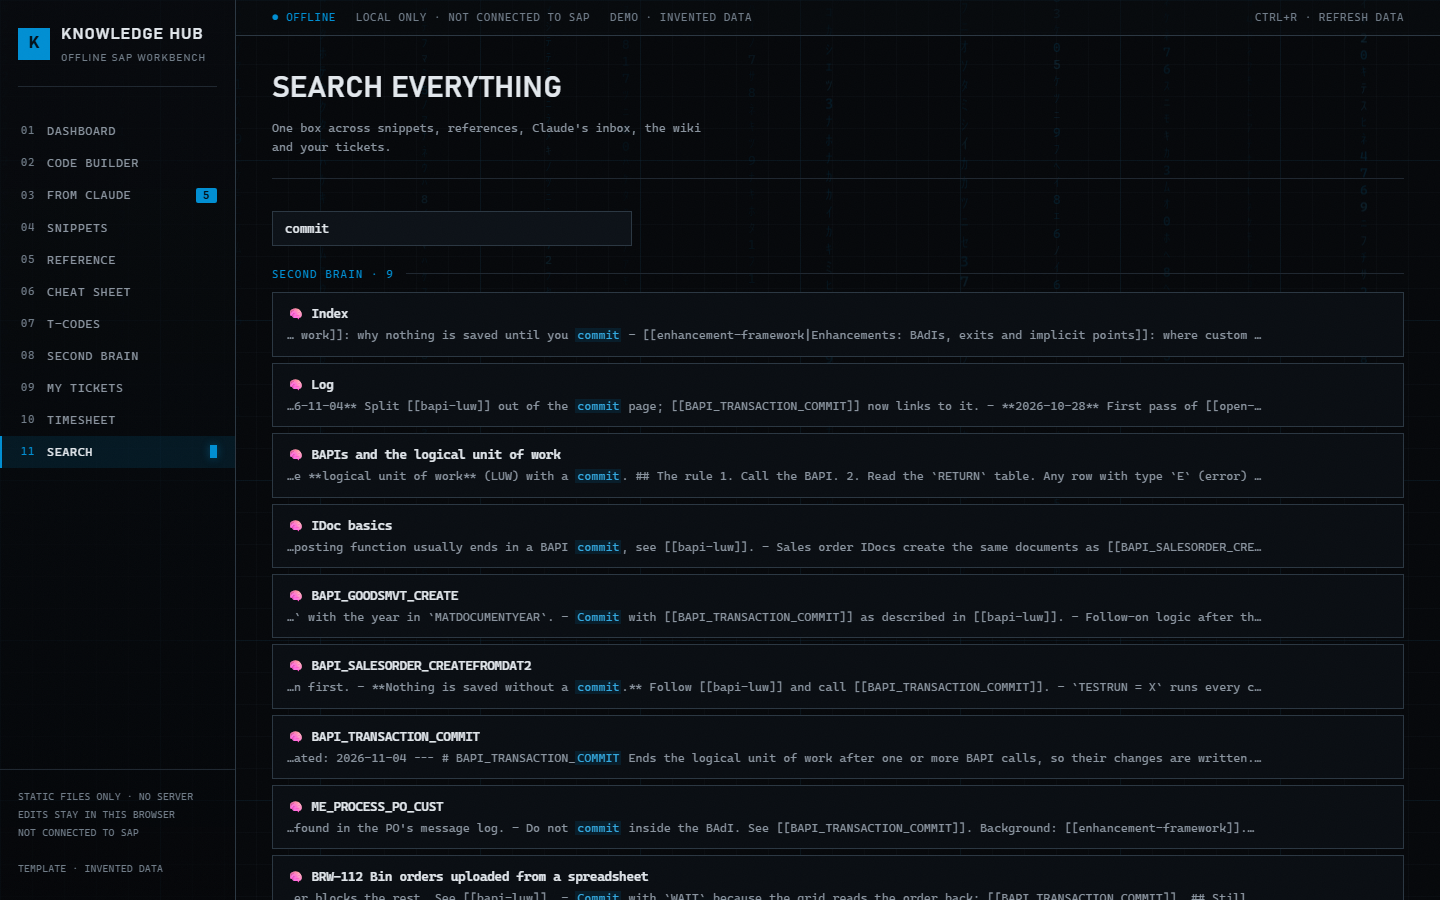
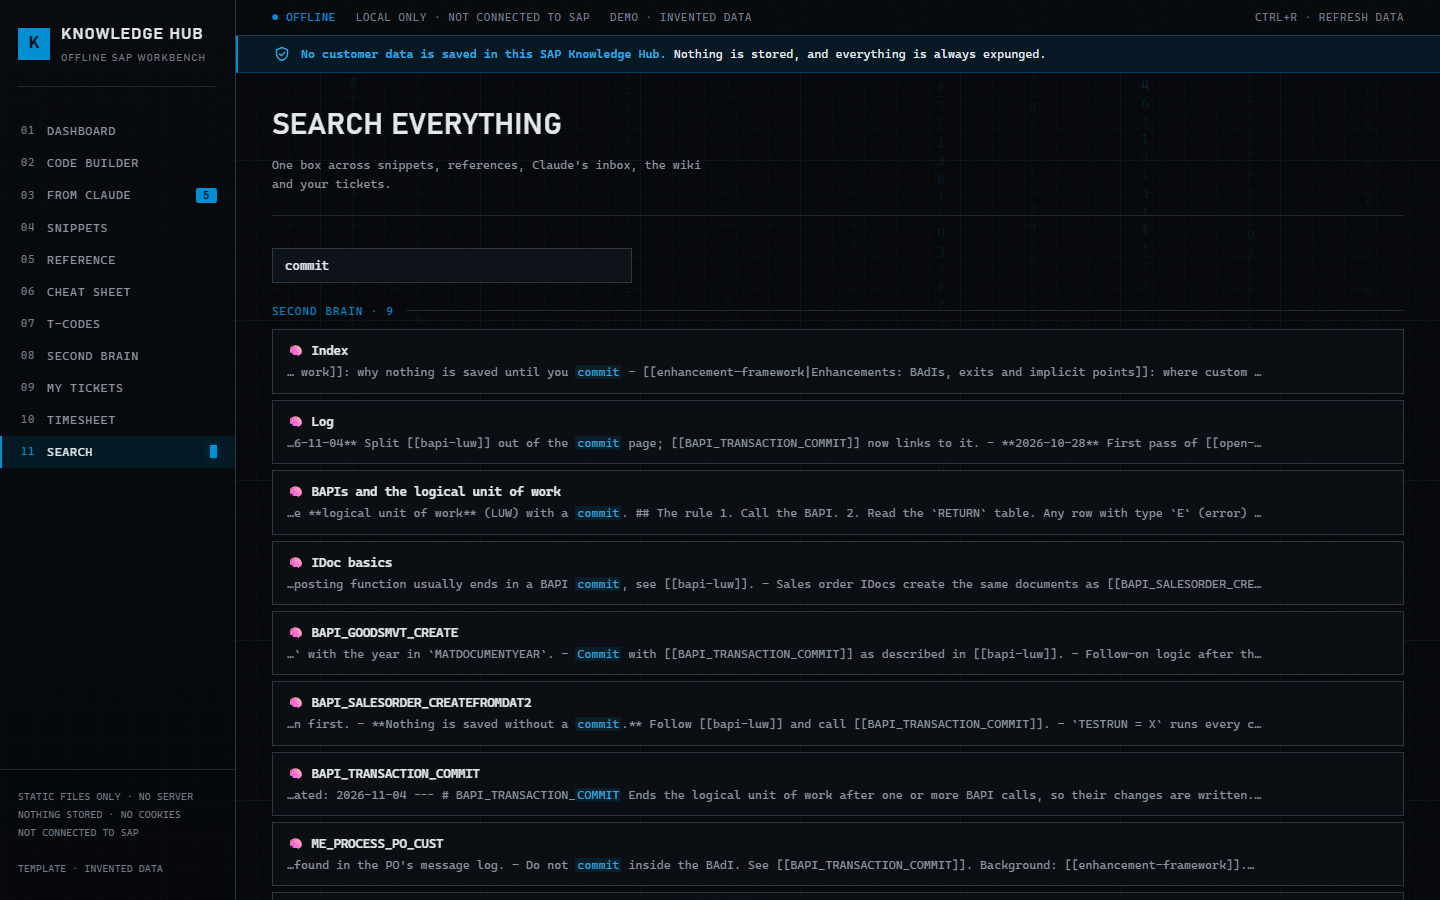
Store nothing: in-memory edits, privacy notice, CSP
- Replace every localStorage read/write (snippets, references, editor
  buffer, timesheet hours) with in-memory state that is gone on close
  or reload; delete sapKnowledgeHub.* and abapHub.* keys on load.
- Remove Backup/Restore (download/upload of edits).
- Add a pinned privacy notice under the status bar on every view.
- Add a Content-Security-Policy so the browser refuses any request to
  another origin, plus no-referrer.
- README: Privacy section; screenshots retaken with the notice.

diff --git a/index.html b/index.html
@@ -3,6 +3,9 @@
 <head>
 <meta charset="UTF-8" />
 <meta name="viewport" content="width=device-width, initial-scale=1.0" />
+<!-- Privacy: the browser refuses any request to another origin, and the page cannot send data anywhere. -->
+<meta http-equiv="Content-Security-Policy" content="default-src 'self'; script-src 'self' 'unsafe-inline'; style-src 'self' 'unsafe-inline'; img-src 'self' data:; font-src 'self'; connect-src 'none'; object-src 'none'; frame-src 'none'; worker-src 'none'; manifest-src 'none'; form-action 'none'; base-uri 'none'" />
+<meta name="referrer" content="no-referrer" />
 <title>SAP Knowledge Hub</title>
 <meta name="description" content="SAP Knowledge Hub: an offline, zero-dependency SAP workbench. Code builder, reference notebook (FMs, BAPIs, BAdIs), T-codes, a second-brain wiki with a link graph and an offline ticket mirror. Template with invented demo data." />
 <meta name="theme-color" content="#06080b" />
@@ -31,30 +34,32 @@
     <button data-view="search"><span class="ic" aria-hidden="true">11</span> Search</button>
   </nav>
   <div class="foot">
-    static files only · no server<br>edits stay in this browser<br>not connected to SAP<br><br>template · invented data
+    static files only · no server<br>nothing stored · no cookies<br>not connected to SAP<br><br>template · invented data
   </div>
 </aside>
 
 <main class="main">
 
-  <div class="statusbar">
-    <span class="on">● OFFLINE</span>
-    <span>LOCAL ONLY · NOT CONNECTED TO SAP</span>
-    <span>DEMO · INVENTED DATA</span>
-    <span class="sp">CTRL+R · REFRESH DATA</span>
+  <div class="topbar">
+    <div class="statusbar">
+      <span class="on">● OFFLINE</span>
+      <span>LOCAL ONLY · NOT CONNECTED TO SAP</span>
+      <span>DEMO · INVENTED DATA</span>
+      <span class="sp">CTRL+R · REFRESH DATA</span>
+    </div>
+    <p class="privacy-bar" role="note">
+      <svg viewBox="0 0 16 16" aria-hidden="true"><path d="M8 1.5 2.5 3.8v3.7c0 3.3 2.3 6 5.5 7 3.2-1 5.5-3.7 5.5-7V3.8L8 1.5Z"/><path d="m5.6 8.1 1.7 1.7 3.2-3.4"/></svg>
+      <span><b>No customer data is saved in this SAP Knowledge Hub.</b> Nothing is stored, and everything is always expunged.</span>
+    </p>
   </div>
 
   <!-- DASHBOARD -->
   <section class="view active" id="view-dash">
     <div class="head">
       <div><h2>Welcome back, Mara</h2><p>Build it here, copy it into SAP. Your hub, your rules.</p></div>
-      <div style="display:flex;gap:10px">
-        <button class="btn" onclick="exportData()">⭳ Backup</button>
-        <button class="btn" onclick="document.getElementById('importFile').click()">⭱ Restore</button>
-      </div>
     </div>
     <div class="stats">
-      <div class="stat"><div class="n" id="stat-snip">0</div><div class="l">Saved Snippets</div></div>
+      <div class="stat"><div class="n" id="stat-snip">0</div><div class="l">Snippets</div></div>
       <div class="stat"><div class="n" id="stat-ref">0</div><div class="l">References Logged</div></div>
       <div class="stat"><div class="n" id="stat-fm">0</div><div class="l">Function Modules</div></div>
       <div class="stat"><div class="n" id="stat-bapi">0</div><div class="l">BAPIs</div></div>
@@ -62,9 +67,9 @@
     <div class="tcode-note">New here? Everything on this page is invented demo data. Try <a class="wikilink" onclick="go('search');document.getElementById('globalSearch').focus()">searching everything</a> for <b>commit</b>, or open the <a class="wikilink" onclick="go('wiki');setTimeout(wikiShown,40)">wiki graph</a> and click a node.</div>
     <div class="lbl">Workspaces</div>
     <div class="grid">
-      <div class="card"><h3><span style="color:var(--blue)">▸</span> Code Builder</h3><div class="desc">A clean editor with ABAP colouring. Write, save, and copy your code over to SAP.</div><button class="btn sm" onclick="go('work')">Open editor →</button></div>
+      <div class="card"><h3><span style="color:var(--blue)">▸</span> Code Builder</h3><div class="desc">A clean editor with ABAP colouring. Write it here, then copy it over to SAP. Nothing is saved.</div><button class="btn sm" onclick="go('work')">Open editor →</button></div>
       <div class="card"><h3><span style="color:var(--blue)">▸</span> From Claude</h3><div class="desc">Whatever Claude writes for you in chat lands here — ABAP, config walkthroughs, fixes — ready to use in SAP.</div><button class="btn sm" onclick="go('inbox')">Open inbox →</button></div>
-      <div class="card"><h3><span style="color:var(--blue)">▸</span> Snippets</h3><div class="desc">Save reusable blocks you keep rewriting — SELECTs, loops, ALV, BAPI calls.</div><button class="btn sm" onclick="go('snip')">Open library →</button></div>
+      <div class="card"><h3><span style="color:var(--blue)">▸</span> Snippets</h3><div class="desc">Reusable blocks you keep rewriting: SELECTs, loops, ALV, BAPI calls. Kept for this session only.</div><button class="btn sm" onclick="go('snip')">Open library →</button></div>
       <div class="card"><h3><span style="color:var(--blue)">▸</span> References</h3><div class="desc">Your own searchable notebook of FMs, BAPIs, BADIs, transactions and config, with examples.</div><button class="btn sm" onclick="go('ref')">Open notebook →</button></div>
       <div class="card"><h3><span style="color:var(--blue)">▸</span> T-Codes</h3><div class="desc">A curated, searchable list of common SAP transaction codes, grouped by area. Click to copy.</div><button class="btn sm" onclick="go('tcode')">Open T-codes →</button></div>
       <div class="card"><h3><span style="color:var(--blue)">▸</span> My Tickets</h3><div class="desc">Your assigned service-desk tickets, mirrored offline and refreshed each morning.</div><button class="btn sm" onclick="go('tickets')">Open tickets →</button></div>
@@ -94,7 +99,7 @@
           <option value="commit">BAPI + COMMIT / ROLLBACK</option>
           <option value="guarded">Guarded update report</option>
         </select>
-        <button class="btn" onclick="saveCurrentAsSnippet()">❖ Save as snippet</button>
+        <button class="btn" onclick="saveCurrentAsSnippet()">❖ Add as snippet</button>
         <button class="btn primary" onclick="copyEditor()">⧉ Copy code</button>
       </div>
     </div>
@@ -201,7 +206,7 @@
         <div id="tsDays"></div>
 
         <footer class="ts-foot">
-          <p>Hours live in this browser only. Refreshing the data with <kbd>Ctrl</kbd> <kbd>R</kbd> will not clear them.</p>
+          <p>Hours are kept in memory only. Closing or reloading the tab clears them, so copy the week before you go.</p>
           <button class="ts-btn" onclick="tsCopy()">
             <svg viewBox="0 0 20 20" aria-hidden="true"><path d="M7 2h7a2 2 0 0 1 2 2v9a2 2 0 0 1-2 2H7a2 2 0 0 1-2-2V4a2 2 0 0 1 2-2Z"/><path d="M4 6v10a2 2 0 0 0 2 2h7"/></svg>
             Copy week as text
@@ -263,7 +268,7 @@
     <div class="field"><label>Title</label><input id="snipName" placeholder="e.g. SELECT customers into itab"></div>
     <div class="field"><label>Tags / note (optional)</label><input id="snipNote" placeholder="e.g. open SQL, KNA1"></div>
     <div class="field"><label>Code</label><textarea id="snipCode" rows="9" spellcheck="false" style="font-family:monospace"></textarea></div>
-    <div class="actions"><button class="btn ghost" onclick="closeM('snipModal')">Cancel</button><button class="btn primary" onclick="saveSnip()">Save</button></div>
+    <div class="actions"><button class="btn ghost" onclick="closeM('snipModal')">Cancel</button><button class="btn primary" onclick="saveSnip()">Add</button></div>
   </div>
 </div>
 
@@ -276,11 +281,10 @@
     <div class="field"><label>Name</label><input id="refName" placeholder="e.g. BAPI_USER_GET_DETAIL"></div>
     <div class="field"><label>What it does</label><textarea id="refDesc" rows="3" placeholder="Short description / when to use it"></textarea></div>
     <div class="field"><label>Example call / parameters (optional)</label><textarea id="refCode" rows="7" spellcheck="false" style="font-family:monospace"></textarea></div>
-    <div class="actions"><button class="btn ghost" onclick="closeM('refModal')">Cancel</button><button class="btn primary" onclick="saveRef()">Save</button></div>
+    <div class="actions"><button class="btn ghost" onclick="closeM('refModal')">Cancel</button><button class="btn primary" onclick="saveRef()">Add</button></div>
   </div>
 </div>
 
-<input type="file" id="importFile" accept="application/json" style="display:none" onchange="importData(this)">
 <div class="toast" id="toast" role="status" aria-live="polite">Copied!</div>
 
 <script src="data/inbox.js"></script>

diff --git a/js/hub.js b/js/hub.js
@@ -1,10 +1,21 @@
-/* ---------- storage ---------- */
-/* Everything the user edits lives in this browser, under one localStorage prefix. */
-const LS = "sapKnowledgeHub.";
-const DB = {
-  snips: JSON.parse(localStorage.getItem(LS + "snips") || "null"),
-  refs:  JSON.parse(localStorage.getItem(LS + "refs")  || "null"),
-};
+/* ---------- storage: none ---------- */
+/* Nothing is written to the browser. No localStorage, sessionStorage, cookies or IndexedDB.
+   Everything the user types lives in the variables below and is gone when the tab is closed or reloaded. */
+(function expungeOldVersions(){
+  /* Earlier versions kept edits in localStorage under these prefixes. Delete whatever they left behind. */
+  const OLD = ["sapKnowledgeHub.", "abapHub."];
+  ["localStorage", "sessionStorage"].forEach(name => {
+    try {
+      const store = window[name]; /* reading the property itself throws when storage is blocked */
+      for (let i = store.length - 1; i >= 0; i--){
+        const k = store.key(i);
+        if (k && OLD.some(p => k.indexOf(p) === 0)) store.removeItem(k);
+      }
+    } catch(e){ /* storage blocked or unavailable: nothing to delete */ }
+  });
+})();
+const MEM = { code: "", hours: {} };
+const DB = { snips: null, refs: null };
 if (!DB.snips) DB.snips = [
   { id:1, name:"ALV grid (simple)", note:"SALV factory",
     code:"cl_salv_table=>factory(\n  IMPORTING r_salv_table = DATA(go_alv)\n  CHANGING  t_table      = lt_data ).\ngo_alv->display( )." },
@@ -36,10 +47,9 @@ if (!DB.refs) DB.refs = [
     desc:"The quick way to show an internal table as an ALV grid. Display only.",
     code:"cl_salv_table=>factory(\n  IMPORTING r_salv_table = DATA(lo_alv)\n  CHANGING  t_table      = lt_output ).\nlo_alv->display( )." }
 ];
+/* Keeps the editor buffer in memory only. Snippets and references already live in DB. */
 function save(){
-  localStorage.setItem(LS + "snips", JSON.stringify(DB.snips));
-  localStorage.setItem(LS + "refs",  JSON.stringify(DB.refs));
-  localStorage.setItem(LS + "code",  document.getElementById("code").value);
+  MEM.code = document.getElementById("code").value;
 }
 
 /* ---------- nav ---------- */
@@ -99,7 +109,7 @@ function hl(){
   document.getElementById("hlcode").innerHTML = out + "\n";
 }
 const ta = document.getElementById("code");
-ta.value = localStorage.getItem(LS + "code") || "";
+ta.value = MEM.code;
 ta.addEventListener("input", () => { hl(); save(); });
 ta.addEventListener("scroll", () => {
   const p = document.getElementById("hlcode");
@@ -165,7 +175,7 @@ function saveSnip(){
   } else {
     DB.snips.unshift({ id: Date.now(), name: snipName.value, note: snipNote.value, code: snipCode.value });
   }
-  save(); renderSnips(); renderStats(); closeM("snipModal"); toast("Saved ✓");
+  save(); renderSnips(); renderStats(); closeM("snipModal"); toast("Added for this session ✓");
 }
 function delSnip(id){ if (!confirm("Delete this snippet?")) return; DB.snips = DB.snips.filter(x => x.id !== id); save(); renderSnips(); renderStats(); }
 function renderSnips(){
@@ -213,7 +223,7 @@ function saveRef(){
   } else {
     DB.refs.unshift({ id: Date.now(), type: refType.value, name: refName.value, desc: refDesc.value, code: refCode.value });
   }
-  save(); renderRefs(); renderStats(); closeM("refModal"); toast("Saved ✓");
+  save(); renderRefs(); renderStats(); closeM("refModal"); toast("Added for this session ✓");
 }
 function delRef(id){ if (!confirm("Delete this entry?")) return; DB.refs = DB.refs.filter(x => x.id !== id); save(); renderRefs(); renderStats(); }
 function renderRefs(){
@@ -319,7 +329,7 @@ function inboxToEditor(i){
 function inboxSave(i){
   const it = (window.CLAUDE_INBOX.items || [])[i];
   DB.snips.unshift({ id: Date.now(), name: it.title || "From Claude", note: it.note || "", code: it.code || "" });
-  save(); renderSnips(); renderStats(); toast("Saved to snippets ✓");
+  save(); renderSnips(); renderStats(); toast("Added to snippets for this session ✓");
 }
 
 /* ---------- cheat sheet ---------- */
@@ -375,30 +385,6 @@ function renderCheat(){
       <h3 style="font-size:13px;color:var(--accent2)">${escH(it[0])}</h3>
       <pre style="margin:0">${escH(it[1])}</pre></div>`).join("")
   }</div></div>`).join("");
-}
-
-/* ---------- backup / restore ---------- */
-function exportData(){
-  const data = JSON.stringify({ snips: DB.snips, refs: DB.refs, code: localStorage.getItem(LS + "code") || "", exported: new Date().toISOString() }, null, 2);
-  const blob = new Blob([data], { type: "application/json" });
-  const a = document.createElement("a");
-  a.href = URL.createObjectURL(blob); a.download = "knowledge-hub-backup.json"; a.click();
-  URL.revokeObjectURL(a.href); toast("Backup saved ✓");
-}
-function importData(input){
-  const f = input.files[0]; if (!f) return;
-  const r = new FileReader();
-  r.onload = () => {
-    try {
-      const d = JSON.parse(r.result);
-      if (Array.isArray(d.snips)) DB.snips = d.snips;
-      if (Array.isArray(d.refs))  DB.refs  = d.refs;
-      if (typeof d.code === "string"){ document.getElementById("code").value = d.code; hl(); }
-      save(); renderSnips(); renderRefs(); renderStats(); toast("Backup restored ✓");
-    } catch(e){ toast("That file is not a valid backup"); }
-    input.value = "";
-  };
-  r.readAsText(f);
 }
 
 /* ---------- misc ---------- */
@@ -701,8 +687,7 @@ function toggleCmt(btn){
 }
 
 /* ---------- timesheet ---------- */
-const TS_HKEY = LS + "timesheet.hours";
-function tsHours(){ try { return JSON.parse(localStorage.getItem(TS_HKEY) || "{}"); } catch(e){ return {}; } }
+function tsHours(){ return MEM.hours; }
 function tsWeek(){
   const box = window.CLAUDE_TIMESHEET || {};
   const weeks = Array.isArray(box.weeks) ? box.weeks : [];
@@ -780,7 +765,6 @@ function tsSetHours(input){
   const store = tsHours();
   const raw = (input.value || "").trim().replace(",", ".");
   if (!raw) delete store[id]; else store[id] = raw;
-  try { localStorage.setItem(TS_HKEY, JSON.stringify(store)); } catch(e){}
   tsTotal();
 }
 function tsTotal(){

diff --git a/css/hub.css b/css/hub.css
@@ -110,11 +110,19 @@
     display:flex;align-items:center;gap:20px;padding:9px 36px;
     border-bottom:1px solid var(--line2);background:rgba(8,11,15,.5);
     font-size:10.5px;color:var(--dim);letter-spacing:.09em;text-transform:uppercase;
-    position:sticky;top:0;z-index:5;backdrop-filter:none;
   }
   .statusbar .on{color:var(--blue)}
   .statusbar .sp{margin-left:auto}
   .statusbar b{color:var(--muted);font-weight:400}
+  /* status bar + privacy notice stay pinned above every view */
+  .topbar{position:sticky;top:0;z-index:5;background:var(--bg)}
+  .privacy-bar{
+    display:flex;align-items:center;gap:11px;margin:0;padding:9px 36px;
+    background:var(--blue-soft);border-bottom:1px solid var(--blue-line);border-left:2px solid var(--blue);
+    font-size:12px;line-height:1.5;color:var(--txt);text-wrap:pretty;
+  }
+  .privacy-bar b{color:var(--blue-br);font-weight:600}
+  .privacy-bar svg{flex:none;width:16px;height:16px;fill:none;stroke:var(--blue-br);stroke-width:1.4;stroke-linecap:round;stroke-linejoin:round}
 
   .view{display:none;animation:fade .2s ease;padding:30px 36px}
   .view.active{display:block}

diff --git a/README.md b/README.md
@@ -2,6 +2,8 @@
 
 An offline, zero-dependency workbench for SAP developers and consultants. It opens from a folder with a double-click: no server, no build step, no install, no network calls.
 
+> **No customer data is saved in this SAP Knowledge Hub. Nothing is stored, and everything is always expunged.** See [Privacy](#privacy).
+
 > **Sanitised template.** This is a public template of a tool I use day to day. All data in it is invented: the consultancy *Larkwell Consulting*, the clients *Brackenfield Waste* and *Osterby Utilities*, the systems BD1/BQ1/BP1, the tickets, the people and the timesheet. Any resemblance to real companies, people or tickets is coincidental. The SAP objects and transaction codes are standard, publicly documented SAP names; the explanations are written in my own words.
 
 **Live demo:** [tacitdev1.github.io/sap-knowledge-hub](https://tacitdev1.github.io/sap-knowledge-hub/). Try [Search for "commit"](https://tacitdev1.github.io/sap-knowledge-hub/#search?q=commit), then open the [Second Brain graph](https://tacitdev1.github.io/sap-knowledge-hub/#wiki) and click a node.
@@ -42,7 +44,7 @@ flowchart LR
   end
   subgraph browser["Browser"]
     G["window.CLAUDE_* globals"] --> APP["js/hub.js<br/>render 11 views"]
-    APP <--> LS[("localStorage<br/>sapKnowledgeHub.*")]
+    APP <--> MEM[("in-memory state<br/>gone on close or reload")]
   end
   WJS -- "&lt;script&gt;" --> G
   D -- "&lt;script&gt;" --> G
@@ -50,7 +52,7 @@ flowchart LR
 ```
 
 - **Data as script tags.** Each data file sets one global (`window.CLAUDE_REFS = {...}`). Browsers load `<script src>` from `file://` without complaint, while `fetch()` of JSON would be blocked. That one choice is why the hub runs from a folder with no server.
-- **Read-only data, local edits.** The data files are the "published" content. Anything you create in the page (snippets, notebook entries, the editor buffer, timesheet hours) is kept in `localStorage` under the `sapKnowledgeHub.` prefix, with Backup / Restore buttons on the dashboard.
+- **Read-only data, throwaway edits.** The data files are the "published" content. Anything you create in the page (snippets, notebook entries, the editor buffer, timesheet hours) lives in JavaScript variables only and is gone when you close or reload the tab.
 - **No dependencies.** Plain HTML, CSS and one script. The wiki graph is a hand-written force simulation in SVG; the Markdown renderer is about 40 lines.
 - **Relative paths only**, so the same files work from disk, from `localhost` and from a GitHub Pages sub-path.
 - The `CLAUDE_*` names come from the original workflow, where an AI assistant refreshes the data files each morning. They are just global names; nothing here calls an AI service.
@@ -122,6 +124,25 @@ This repo was cut from a private tool, so every push runs `scripts/leak-scan.mjs
 ```bash
 node scripts/leak-scan.mjs
 ```
+
+## Privacy
+
+No customer data is saved in this SAP Knowledge Hub. Nothing is stored, and everything is always expunged.
+
+What it does:
+
+- Reads its own files (`index.html`, `css/`, `js/`, `data/`) from the same place the page came from, and nothing else.
+- Keeps anything you type (code, snippets, notebook entries, timesheet hours) in memory while the tab is open. Closing or reloading the tab wipes it.
+- On load, deletes the `sapKnowledgeHub.*` and `abapHub.*` keys that earlier versions of the hub left in the browser. It does not touch any other keys.
+
+What it does not do:
+
+- **No storage.** It never writes to `localStorage`, `sessionStorage`, IndexedDB or the Cache API, and registers no service worker. It offers no download or export of what you typed.
+- **No cookies.** It neither sets nor reads any.
+- **No tracking.** There is no analytics, telemetry, error reporting or fingerprinting.
+- **No outside requests.** It loads no fonts, CDNs or third-party scripts, and it sends nothing anywhere. A Content-Security-Policy in `index.html` (`default-src 'self'`, `connect-src 'none'`, `form-action 'none'`) makes the browser refuse any other request even if one were added by mistake. The only outside addresses in the data are the demo ticket links, which open only when you click them.
+
+The demo is hosted on GitHub Pages. GitHub may keep its own server logs for the pages it serves (see GitHub's privacy statement). The hub itself adds nothing to that.
 
 ## Licence
 
